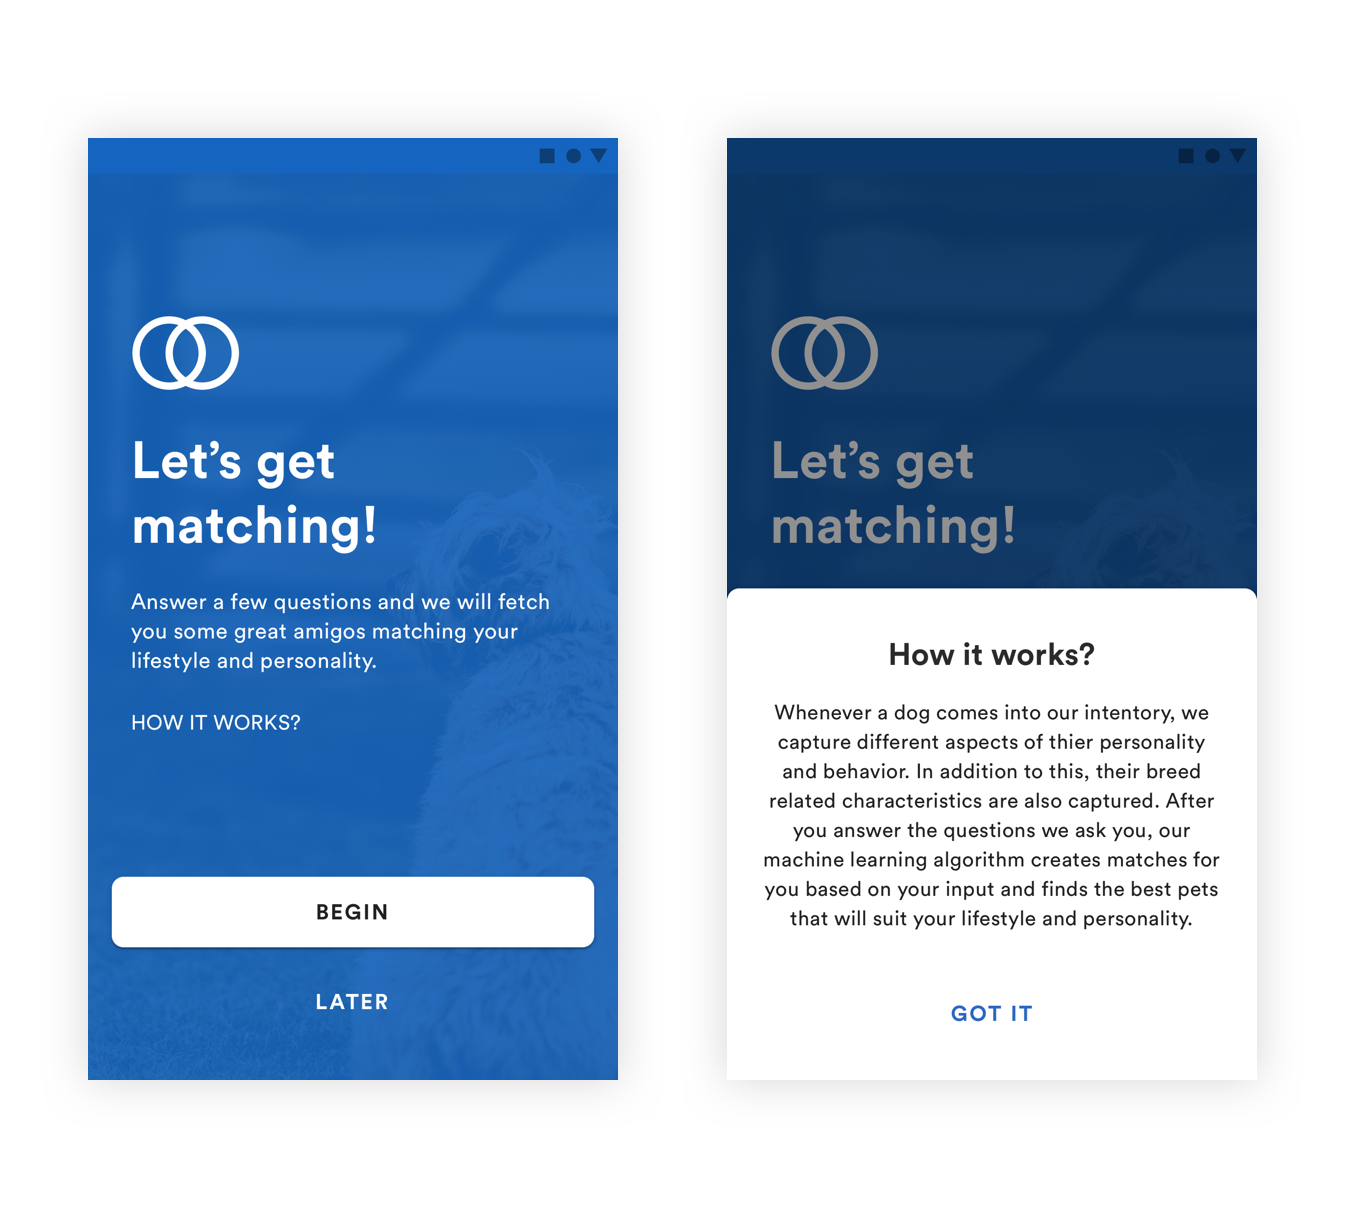
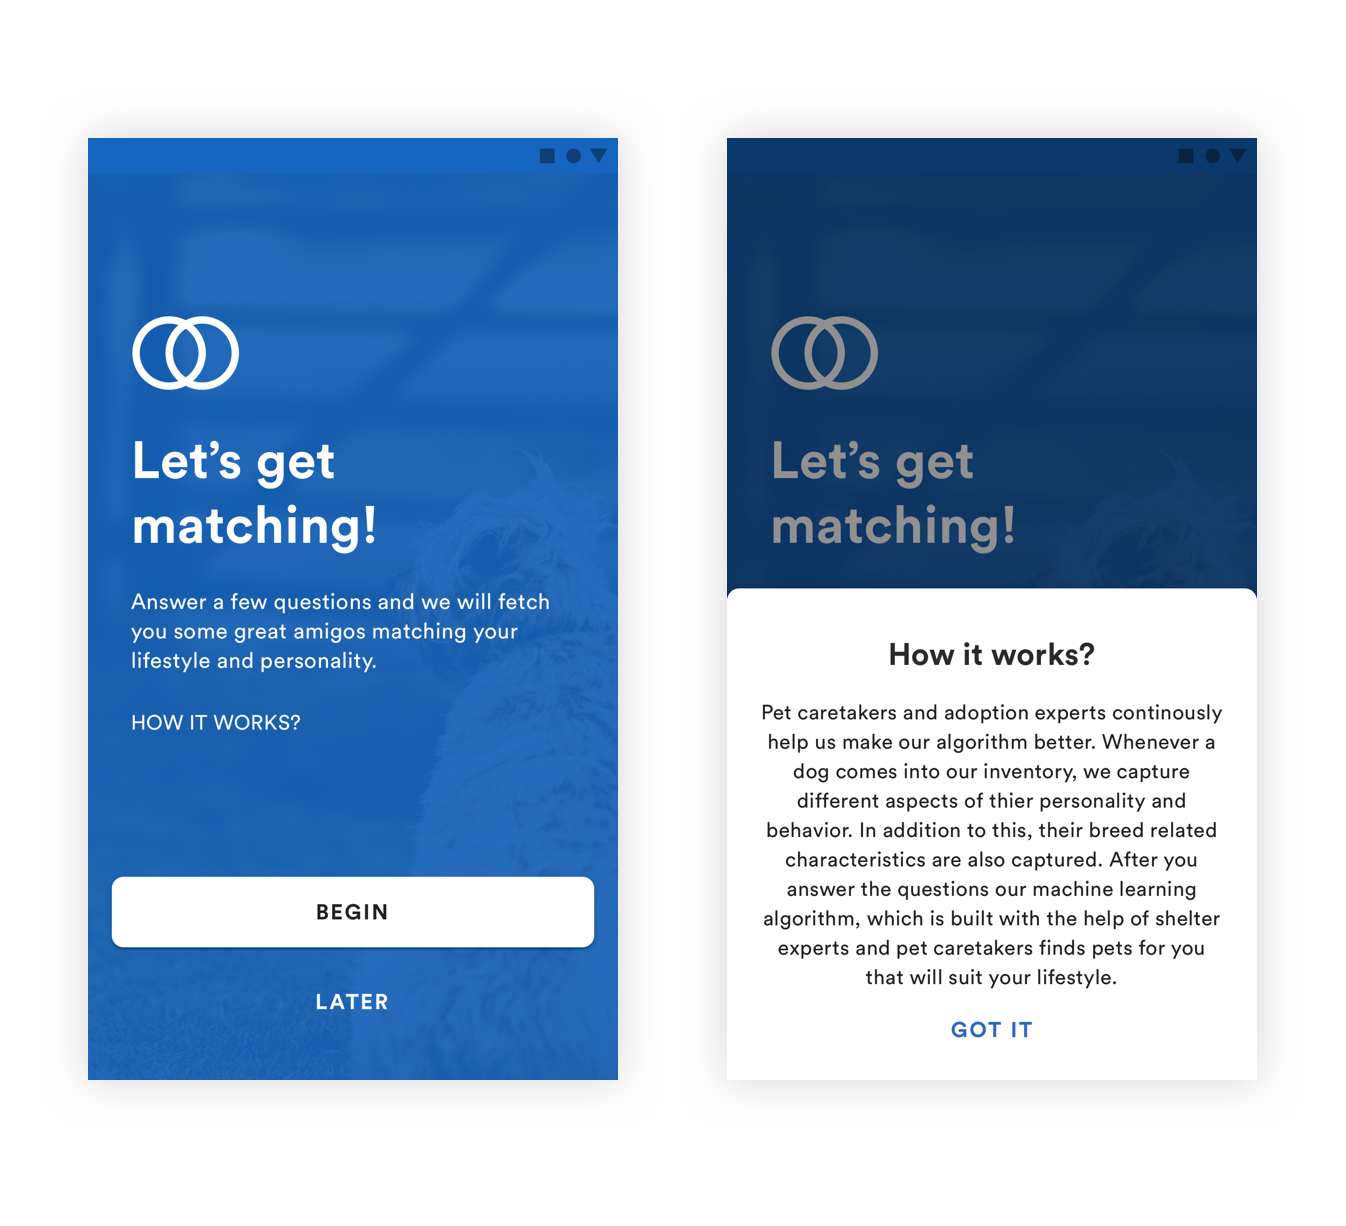
Final commit hopefully

Changed region(s): [[0.5617, 0.5579, 0.9049, 0.8679]]

diff --git a/gde1.html b/gde1.html
@@ -150,19 +150,34 @@
 					<h5>1. While adopting from shelters or adoption events, lifestyle questions are asked much later in the process for approving a choice rather than making a match. </h5>
 					<p>Since lifestyle approval is done in the end when adopter already has their heart set on a pet, there disappointments and compromises. And none of the current aggregator apps are asking lifestyle questions to find pet options. There is also lack of
 						trust in quizzes that find adopter their match.</p>
-					<h5>Opportunity:</h5>
-					<p>We can reduce the disappointments and compromises by knowing about the lifestyle of an owner earlier in the process. And help them choose a companion which is right for them from an aggregate pool of potential pets.</p>
-					<br><br>
+					<br>
 					<h5>2. Currently, the only way to understand pet’s behavior and temperament is to go down to the shelter or adoption events and talk to pet’s caretaker which is time consuming. </h5>
 					<p>Choosing a pet as a companion is an emotional decision highly driven by pet’s appearance and behaviors. People believe the most in caretaker’s assessment of pet’s behavior. It is time consuming and repetitive for both adopter and caretakers to talk
 						about pet’s behavior to each individual.</p>
-					<h5>Opportunity:</h5>
-					<p>In addition to good matchmaking, we can provide more meaningful and substantial ways to get to know the behavior and appearance of a potential pet better so that adopters don’t have to ask the caretaker about the behavior of every pet they are interested.</p>
-					<br><br>
+					<br>
 					<h5>3. Pets come and go at a shelter, events happen nearby for adoption  and people do not get to know if they have missed a good match if they are not actively looking. </h5>
 					<p>Adopters are making all the efforts to come across and meet their potential meets, there are no updates or pull from the shelters once adopters have left the shelters or the adoption events.</p>
-					<h5>Opportunity:</h5>
-					<p>Once we know about the lifestyle and preferences of an adopter we can nudge potential adopters whenever there’s a good match near them so that they don’t miss any chance of being with their perfect companion.</p>
+
+					<br><br><br><br>
+				</div>
+
+			</div>
+		</div>
+
+	</section>
+
+
+	<section id="projectbg">
+		<div class="section-head">
+			<h1>OPPORTUNITIES</h1>
+		</div>
+		<div class="container">
+			<div class="row">
+				<div class="col-md-offset-2 col-md-8 col-xs-12 col-sm-12 inprobg1 text-left">
+
+					<h5>1. We can reduce the disappointments and compromises by knowing about the lifestyle of an owner earlier in the process. And help them choose a companion which is right for them from an aggregate pool of potential pets.<br><br>
+					2. In addition to good matchmaking, we can provide more meaningful and substantial ways to get to know the behavior and appearance of a potential pet better so that adopters don’t have to ask the caretaker about the behavior of every pet they are interested.	<br><br>
+				3. Once we know about the lifestyle and preferences of an adopter we can nudge potential adopters whenever there’s a good match near them so that they don’t miss any chance of being with their perfect companion.</h5>
 
 					<br><br><br><br>
 				</div>
@@ -189,11 +204,30 @@
 			<div class="row">
 				<div class="col-md-offset-2 col-md-8 col-xs-12 col-sm-12 inprob text-center">
 					<p>After gathering a good understanding of the problem. I moved to ideation and did some brainstorming on different ways of solving the 3 problems identified. Thinking over the scalability, feasibility and desirability of each idea to make a decision.
-						</p>
+					</p>
 					<br><br></div>
 
 				<div class="col-md-offset-1 col-md-10 col-md-offset-1 col-xs-12 col-sm-12 inprob text-center">
 					<img alt="" class="img-responsive projimg" src="imgs/gde/ideation.png">
+				</div>
+			</div>
+		</div>
+
+	</section>
+
+	<section id="projectbg">
+		<div class="section-head">
+			<h1>Sketching</h1>
+		</div>
+		<div class="container">
+			<div class="row">
+				<div class="col-md-offset-2 col-md-8 col-xs-12 col-sm-12 inprob text-center">
+					<p>I critiqued the ideas from my ideation to make decisions and moved on to sketching some ideas on paper before I moved to a digital tool.
+					</p>
+					<br><br></div>
+
+				<div class="col-md-offset-2 col-md-8 col-md-offset-2 col-xs-12 col-sm-12 inprob text-center">
+					<img alt="" class="img-responsive projimg" src="imgs/gde/sketching.png">
 				</div>
 			</div>
 		</div>
@@ -209,7 +243,7 @@
 		<div class="container">
 			<div class="row">
 				<div class="col-md-offset-2 col-md-8 col-xs-12 col-sm-12 inprob text-center">
-					<p>I critiqued the ideas from my ideation to make decisions and moved on to Sketch to create wireframes. After a few iterations of the wireframes I created the user flow below. </p>
+					<p>With sketching, I got a good idea of the overall flow that I wanted to create so I moved on to Sketch to create wireframes. After a few iterations of the wireframes I created the user flow below. </p>
 					<br><br></div>
 
 				<div class="col-md-12 col-xs-12 col-sm-12 inprob text-center">
@@ -305,7 +339,8 @@
 					<div class="col-md-4 col-xs-12 col-sm-12">
 						<div class="workcontent">
 							<h1>First Look to pique interest</h1>
-							<h4>Adopters are shown their compatible matches labeled as - Great, good and fair matches. All the adoptable pets are listed, sorted by match. Only scannable information is displayed on cards  to pique interest. Users can go into the detailed view to know more about the pet, it’s qualities and vulnerabilities, also about shelter, foster home or individual that it currently belongs to.</h4><br><br>
+							<h4>Adopters are shown their compatible matches labeled as - Great, good and fair matches. All the adoptable pets are listed, sorted by match. Only scannable information is displayed on cards to pique interest. Users can go into the detailed view to know more about the pet, it’s qualities and vulnerabilities, also about shelter, foster home or individual that it currently belongs to.
+							Users can also filter this list down if they would like to get a dog with a specific attribute. Cards with videos, will have the video autoplay on mute when it comes into view to create an immersive and engaging discovery experience. </h4><br><br>
 						</div>
 					</div>
 					<div class="col-md-offset-1 col-md-7 col-xs-12 col-sm-12"><img alt="" class="img-responsive projimg" src="imgs/gde/5.png">
@@ -322,11 +357,9 @@
 					</div>
 					<div class="col-md-offset-1 col-md-5 col-xs-12 col-sm-12">
 						<div class="workcontent">
-							<h1>Detailed view to dive deeper</h1>
-							<h4>During research, I found that people trust more in shelter assistants and pet caretakers than any
-				online medium to know pet compatibility. Our matching algorithm should be built with the help of these experts and their knowledge.<br>
-			In ‘How it works’, we should explain that we have taken inputs from shelter experts and caretakers to build the algorithm and gain adopters’ trust in the system.
-
+							<h1>Detail view to dive deeper</h1>
+							<h4>While the first view makes adopters curious and interested in the dog, detailed view lets adopter take the next steps in the process. Adopters get to know how  the dog matches with their lifestyle, they look at both, what’s good with pet’s health and what are the things to consider about their health. Being transparent is the key so that people set the right expectations. They can ask more specific questions to the shelter/foster/individuals here.
+Once people are interested and confident about compatibility, they are provided with shelter information so they can schedule a visit or walk-in to the shelter to look at their pet. Because there is nothing like looking at a pet in person.
 			 </h4>
 						</div>
 					</div>
@@ -342,7 +375,7 @@
 					<div class="col-md-4 col-xs-12 col-sm-12">
 						<div class="workcontent">
 							<h1>Live Video to learn about temperament and behavior</h1>
-							<h4>Behavior, temperament and appearance of a dog are most important to consider when making decision about a compatible pet. 	Live video of the pet on walk with their volunteers, of socializing with other dogs  of training or vet visits will give adopters a better idea of their personality and help them more feel connected with them before they go visit. These live videos are later saved as videos that people who missed the lives session can look at.
+							<h4>Behavior, temperament and appearance of a dog are most important to consider when making decision about a compatible pet. Live video of the pet on walk with their volunteers, of socializing with other dogs of training or vet visits will give adopters a better idea of their personality and help them more feel connected with them before they go visit. These live videos are later saved as videos that people who missed the lives session can look at.
 <br>Adopters can also ask questions during the live session much like the live sessions today on other platforms.
 </h4><br><br>
 						</div>
@@ -363,14 +396,11 @@
 					<div class="col-md-offset-1 col-md-5 col-xs-12 col-sm-12">
 						<div class="workcontent">
 							<h1>Continuously learning algorithm</h1>
-							<h4>As adopters choose their favorites and spend more time in the app tapping, asking questions and signaling interest, these signals are taken in and matches are modified accordingly to better meet the compatibility.</h4>
-						</div>
+							<h4>As adopters choose their favorites and spend more time engaging with the app, we can rightly channel their interests as signals that are then taken in to modify matches accordingly.</div>
 					</div>
 				</div>
 			</div>
 		</div>
-
-
 
 				<div class="container">
 					<div class="row">
@@ -378,15 +408,14 @@
 							<div class="col-md-4 col-xs-12 col-sm-12">
 								<div class="workcontent">
 									<h1>Notifications whenever a new match or nearby event is found</h1>
-									<h4>As found in insight #3, adopters may a times miss a match or an event because they weren’t actively looking every day. This adds time to the process of adoption. Notifications will help adopters meet their companion sooner leaving space for more pets in need.</h4><br><br>
-								</div>
-							</div>
-							<div class="col-md-offset-1 col-md-7 col-xs-12 col-sm-12"><img alt="" class="img-responsive projimg" src="imgs/gde/9.png">
-							</div>
-
-						</div>
+									<h4>As found in insight #3, adopters may a times miss a match or an event because they weren’t actively looking every day. This adds time to the process of adoption. Notifications will help adopters meet their companion sooner leaving space for more pets in need.</h4></div>
 					</div>
+					<div class="col-md-offset-1 col-md-7 col-xs-12 col-sm-12"><img alt="" class="img-responsive projimg" src="imgs/gde/9.png">
+					</div>
+
 				</div>
+			</div>
+		</div>
 
 	</section>
 
@@ -401,11 +430,27 @@
 		<div class="container">
 			<div class="row">
 				<div class="col-md-offset-2 col-md-8 col-xs-12 col-sm-12 inprobg1 text-left">
-					<h5>1. While adopting from shelters or adoption events, lifestyle questions are asked much later in the process for approving a choice rather than making a match. </h5>
-					<p>Since lifestyle approval is done in the end when adopter already has their heart set on a pet, there disappointments and compromises. And none of the current aggregator apps are asking lifestyle questions to find pet options. There is also lack of
-						trust in quizzes that find adopter their match.</p>
-					<h5>Opportunity:</h5>
-					<p>We can reduce the disappointments and compromises by knowing about the lifestyle of an owner earlier in the process. And help them choose a companion which is right for them from an aggregate pool of potential pets.</p>
+					<p>I looped back with people I talked to for research for their feedback. Things people liked- </p>
+					<h5>People loved Live Videos.</h5>
+					<p>“I like that in a live video with their caretaker I can see the dog in a more social and friendly environment. This brings out more of their personality and behavior compared to high stress environments in shelter kennels and adoption events.”
+					</p>
+					<h5>People liked getting nudges about matches and event</h5>
+					<p>“Currently, information is scattered, it’s hard to find things until you are looking and you have to know where to look for. This is brings the information to you which will save time and effort”
+					</p>
+					<h5>People liked the temperament and behavior keywords used to describe pets.</h5>
+					<p>“When describing the pet I want open-endedly, I am not sure if what I said was interpreted correctly so picking from a list helps. Usually, there is a paragraph written and I don’t get the gist of it. Keywords along with description makes me more
+						confident and trust the traits of the dog.”
+					</p><br><br>
+					<p>Suggestions from users-</p>
+
+					<p>“Ranking the traits by most important to least important might help in further sorting”
+						<br>
+						<br>“Ability to change the lifestyle answers later will be helpful if the conditions of living changes etc.”
+						<br>
+						<br>“If I am really interested in a dog, I can probably ask them to hold it for me?”
+						<br>
+						<br>“It would also help to know stuff post adoption, tips on how to take care in the beginning for a new adopter”</p>
+
 					<br><br><br><br>
 				</div>
 
@@ -416,16 +461,19 @@
 
 	<section id="projectbg">
 		<div class="section-head">
-			<h1>Reflection</h1>
+			<h1>Strech Goals</h1>
 		</div>
 		<div class="container">
 			<div class="row">
 				<div class="col-md-offset-2 col-md-8 col-xs-12 col-sm-12 inprobg1 text-left">
-					<h5>1. While adopting from shelters or adoption events, lifestyle questions are asked much later in the process for approving a choice rather than making a match. </h5>
-					<p>Since lifestyle approval is done in the end when adopter already has their heart set on a pet, there disappointments and compromises. And none of the current aggregator apps are asking lifestyle questions to find pet options. There is also lack of
-						trust in quizzes that find adopter their match.</p>
-					<h5>Opportunity:</h5>
-					<p>We can reduce the disappointments and compromises by knowing about the lifestyle of an owner earlier in the process. And help them choose a companion which is right for them from an aggregate pool of potential pets.</p>
+				<p>Given more time and resources, I would have loved to look into creating a system that helps adopters even after the adoption in things like- </p>
+				<p>• Keeping track of vet visits<br>
+					• Upcoming dog meet events like hiking or playing<br>
+					• Suggested dog food and products personalized for their dog<br>
+					• Finding a babysitter in times of need<br>
+					• Finding places to hangout that are dog-friendly<br>
+					• Being part of a community that loves to help each other with dog issues (medical or otherwise)
+</p>
 					<br><br><br><br>
 				</div>
 
